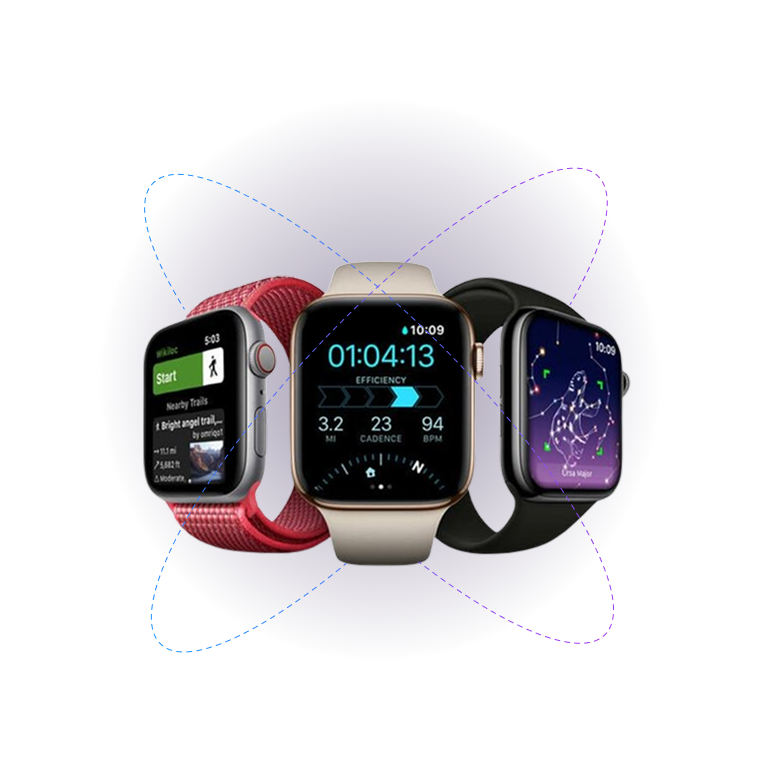
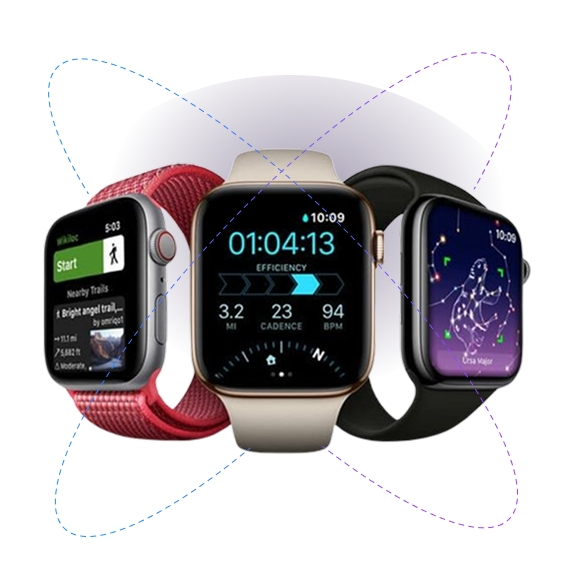
Fix: Dark theme background and image rendering issue

diff --git a/index.html b/index.html
@@ -546,7 +546,7 @@
 
           <!-- image container -->
           <div class="flex justify-center items-center">
-            <img id="themeImage" class="" src="./assets/images/special-light.png" alt="">
+            <img id="themeImage" class="" src="" alt="">
           </div>
 
 
@@ -614,26 +614,27 @@
                 <p class="w-5/7 md:w-3/7  mx-auto py-3 text-xs md:text-sm text-[#777] font-poppins">
                   There are many variations of passages of Lorem Ipsum available in some form.
                 </p>
+              
               </div>
               <div class="grid lg:grid-cols-2 gap-5">
-                <div class="collapse collapse-plus bg-gradient-to-r shadow-md from-[#d2efff] to-[#fdeeff] border border-base-300 ">
+                <div class=" collapse collapse-plus  border border-base-300 bg-gradient-to-r from-[#d2efff] to-[#fdeeff] dark:bg-accordion shadow-md">
                   <input class="" type="radio" name="my-accordion-3" checked="checked" />
-                  <div class="collapse-title font-semibold dark:text-black">Can I use this clock as a mirror?</div>
+                  <div class="collapse-title font-semibold  dark:text-gray">Can I use this clock as a mirror?</div>
                   <div class="collapse-content text-xs text-[#949498]">Lorem ipsum dolor sit amet consectetur adipisicing elit. Est tempore, repellendus cum vitae magnam veniam sed, a dolorum odio doloribus laboriosam</div>
                 </div>
-                <div class="collapse collapse-plus  bg-gradient-to-r shadow-md from-[#d2efff] to-[#fdeeff] border border-base-300 ">
+                <div class="dark:bg-slate collapse collapse-plus  bg-gradient-to-r shadow-md from-[#d2efff] to-[#fdeeff] border border-base-300 dark:bg-accordion">
                   <input type="radio" name="my-accordion-3" checked="checked" />
-                  <div class="collapse-title font-semibold dark:text-black">Dose the alarm sound gradually increase?</div>
+                  <div class="collapse-title font-semibold dark:text-gray">Dose the alarm sound gradually increase?</div>
                   <div class="collapse-content text-xs text-[#949498]">Lorem ipsum dolor sit amet consectetur adipisicing elit. Est tempore, repellendus cum vitae magnam veniam sed, a dolorum odio doloribus laboriosam</div>
                 </div>
-                <div class="collapse collapse-plus bg-gradient-to-r shadow-md from-[#d2efff] to-[#fdeeff] border border-base-300">
+                <div class="collapse collapse-plus bg-gradient-to-r shadow-md from-[#d2efff] to-[#fdeeff] border border-base-300 dark:bg-accordion">
                   <input type="radio" name="my-accordion-3" checked="checked" />
-                  <div class="collapse-title font-semibold dark:text-black">Can I adjust the display brightness?</div>
+                  <div class="collapse-title font-semibold dark:text-gray">Can I adjust the display brightness?</div>
                   <div class="collapse-content text-xs text-[#949498]">Lorem ipsum dolor sit amet consectetur adipisicing elit. Est tempore, repellendus cum vitae magnam veniam sed, a dolorum odio doloribus laboriosam</div>
                 </div>
-                <div class="collapse collapse-plus bg-gradient-to-r shadow-md from-[#d2efff] to-[#fdeeff] border border-base-300 ">
+                <div class="collapse collapse-plus bg-gradient-to-r shadow-md from-[#d2efff] to-[#fdeeff] border border-base-300 dark:bg-accordion">
                   <input type="radio" name="my-accordion-3" checked="checked" />
-                  <div class="collapse-title font-semibold dark:text-black">How dose the sneeze  function work?</div>
+                  <div class="collapse-title font-semibold dark:text-gray">How dose the sneeze  function work?</div>
                   <div class="collapse-content text-xs text-[#949498]">Lorem ipsum dolor sit amet consectetur adipisicing elit. Est tempore, repellendus cum vitae magnam veniam sed, a dolorum odio doloribus laboriosam</div>
                 </div>
               </div>

diff --git a/index.js b/index.js
@@ -147,8 +147,8 @@ function updateImageBasedOnTheme() {
     : './assets/images/special-light.png';
 
     img.className = isDark 
-    ? 'h-[60vh] lg:h-[80vh] max-w-full md:max-w-fit bg-[radial-gradient(ellipse_50.00%_50.00%_at_50.00%_50.00%,_rgba(56.63,_39.80,_86.06,_0.50)_2%,_rgba(56.63,_39.80,_86.06,_0)_74%)] rounded-full   '
-    : 'h-[50vh] lg:h-[70vh] max-w-full   bg-zinc-200/50 rounded-full shadow-[0px_0px_50px_15px_rgba(222,235,242,1.00)]';
+    ? 'h-[50vh] lg:h-[65vh] max-w-full md:max-w-fit bg-[radial-gradient(ellipse_50.00%_50.00%_at_50.00%_50.00%,_rgba(56.63,_39.80,_86.06,_0.50)_2%,_rgba(56.63,_39.80,_86.06,_0)_74%)]   '
+    : 'h-[55vh] lg:h-[70vh] max-w-full   bg-zinc-200/50 rounded-full shadow-[0px_0px_50px_15px_rgba(222,235,242,1.00)]';
     
 }
 

diff --git a/style.css b/style.css
@@ -41,6 +41,10 @@ html[data-theme='dark'] .dark\:bg-black {
 html[data-theme='dark'] .dark\:bg-slate {
   background-color: #0b0b26;
 }
+html[data-theme='dark'] .dark\:bg-accordion {
+  background-image: linear-gradient(to right, #121228, #0b0b26) !important;
+}
+
 
 html[data-theme='dark'] .dark\:img-white {  
   filter: brightness(0) invert(1);
